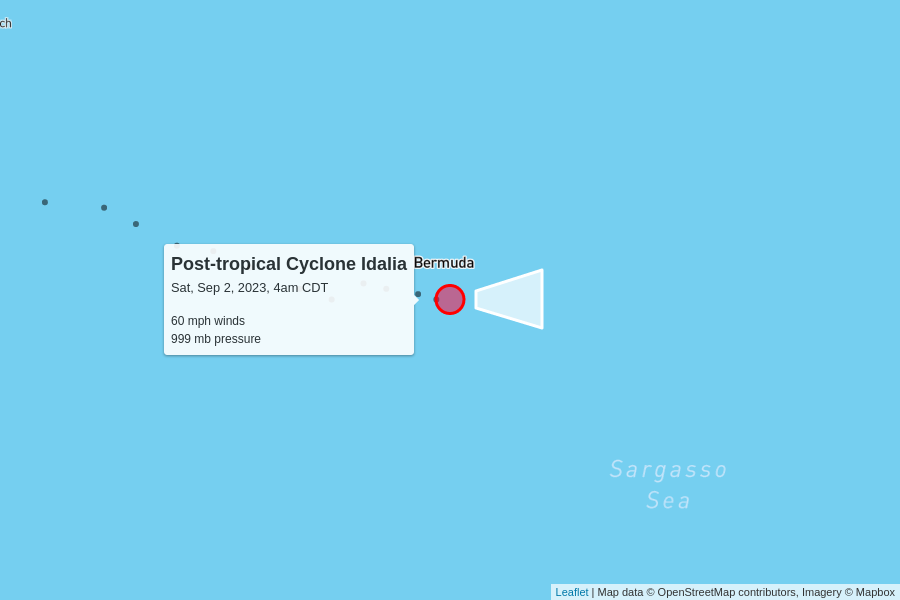
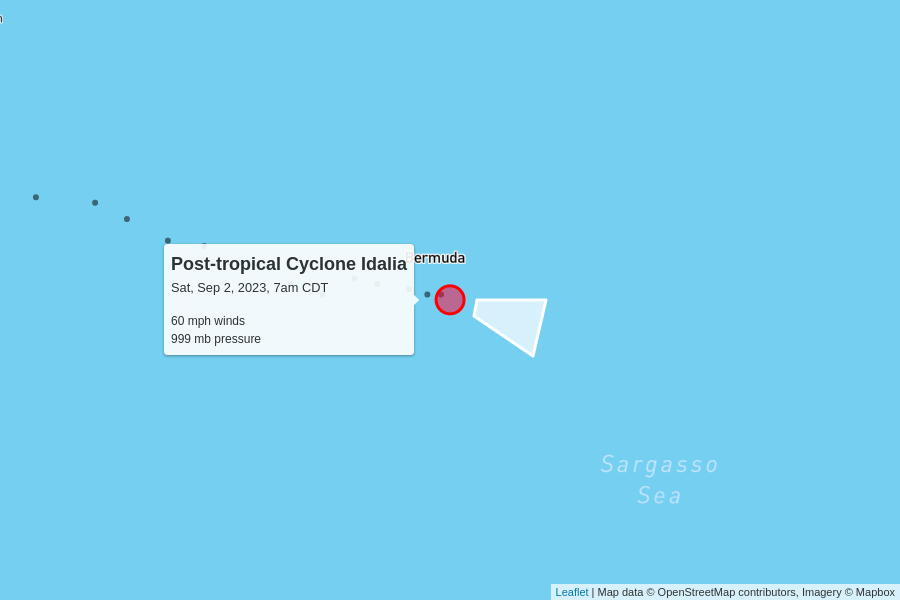
automatic update

diff --git a/docs/index.html b/docs/index.html
@@ -103,6 +103,50 @@
       <tr>
         <td colspan="6" class="storm category-0" >
           <h2>
+            Post-tropical Cyclone Idalia
+            <p class="updated">last updated <span data-time>2023-09-02T12:00:00.000Z</span></p>
+          </h2>
+        </td>
+      </tr>
+      
+      <tr>
+        <th class="spacer"></th>
+        <th>wind speed</th>
+        <th>central pressure</th>
+        <th>movement</th>
+        <th>data (CSV)</th>
+        <th>National Hurricane Center</th>
+      </tr>
+      <tr>
+        <td class="spacer"></td>
+        <td>60 mph<br>0 mph since last update</td>
+        <td>999 mb<br>0 mb since last update</td>
+        <td>
+          6 mph to the east-southeast
+          <br/>
+          <span style="display: inline-block; font-size: 1.5em; transform: rotate(105deg);">↑</span>
+        </td>
+        <td><a href="https://raw.githubusercontent.com/mgwalker/atlantic-hurricanes/main/data/csv/AL102023.csv">AL102023.csv</a></td>
+        <td><a href="https://www.nhc.noaa.gov/archive/2023/IDALIA.shtml?">NHC advisories</a></td>
+      </tr>
+      <tr id="storm_AL102023" >
+        <td class="spacer">
+        <td colspan="5">
+          <figure>
+            <img src="AL102023.png">
+            <figcaption>
+              Map data &copy; <a href="https://www.openstreetmap.org/copyright">OpenStreetMap</a> contributors,
+              Imagery &copy; <a href="https://www.mapbox.com/">Mapbox</a> |
+              <a href="https://www.mapbox.com/map-feedback/" target="_blank">Improve this map</a>
+            </figcaption>
+          </figure>
+        </td>
+      </tr>
+      
+
+      <tr>
+        <td colspan="6" class="storm category-0" >
+          <h2>
             Tropical Storm Gert
             <p class="updated">last updated <span data-time>2023-09-02T09:00:00.000Z</span></p>
           </h2>
@@ -134,50 +178,6 @@
         <td colspan="5">
           <figure>
             <img src="AL062023.png">
-            <figcaption>
-              Map data &copy; <a href="https://www.openstreetmap.org/copyright">OpenStreetMap</a> contributors,
-              Imagery &copy; <a href="https://www.mapbox.com/">Mapbox</a> |
-              <a href="https://www.mapbox.com/map-feedback/" target="_blank">Improve this map</a>
-            </figcaption>
-          </figure>
-        </td>
-      </tr>
-      
-
-      <tr>
-        <td colspan="6" class="storm category-0" >
-          <h2>
-            Post-tropical Cyclone Idalia
-            <p class="updated">last updated <span data-time>2023-09-02T09:00:00.000Z</span></p>
-          </h2>
-        </td>
-      </tr>
-      
-      <tr>
-        <th class="spacer"></th>
-        <th>wind speed</th>
-        <th>central pressure</th>
-        <th>movement</th>
-        <th>data (CSV)</th>
-        <th>National Hurricane Center</th>
-      </tr>
-      <tr>
-        <td class="spacer"></td>
-        <td>60 mph<br>+10 mph since last update</td>
-        <td>999 mb<br>0 mb since last update</td>
-        <td>
-          6 mph to the east
-          <br/>
-          <span style="display: inline-block; font-size: 1.5em; transform: rotate(90deg);">↑</span>
-        </td>
-        <td><a href="https://raw.githubusercontent.com/mgwalker/atlantic-hurricanes/main/data/csv/AL102023.csv">AL102023.csv</a></td>
-        <td><a href="https://www.nhc.noaa.gov/archive/2023/IDALIA.shtml?">NHC advisories</a></td>
-      </tr>
-      <tr id="storm_AL102023" >
-        <td class="spacer">
-        <td colspan="5">
-          <figure>
-            <img src="AL102023.png">
             <figcaption>
               Map data &copy; <a href="https://www.openstreetmap.org/copyright">OpenStreetMap</a> contributors,
               Imagery &copy; <a href="https://www.mapbox.com/">Mapbox</a> |
